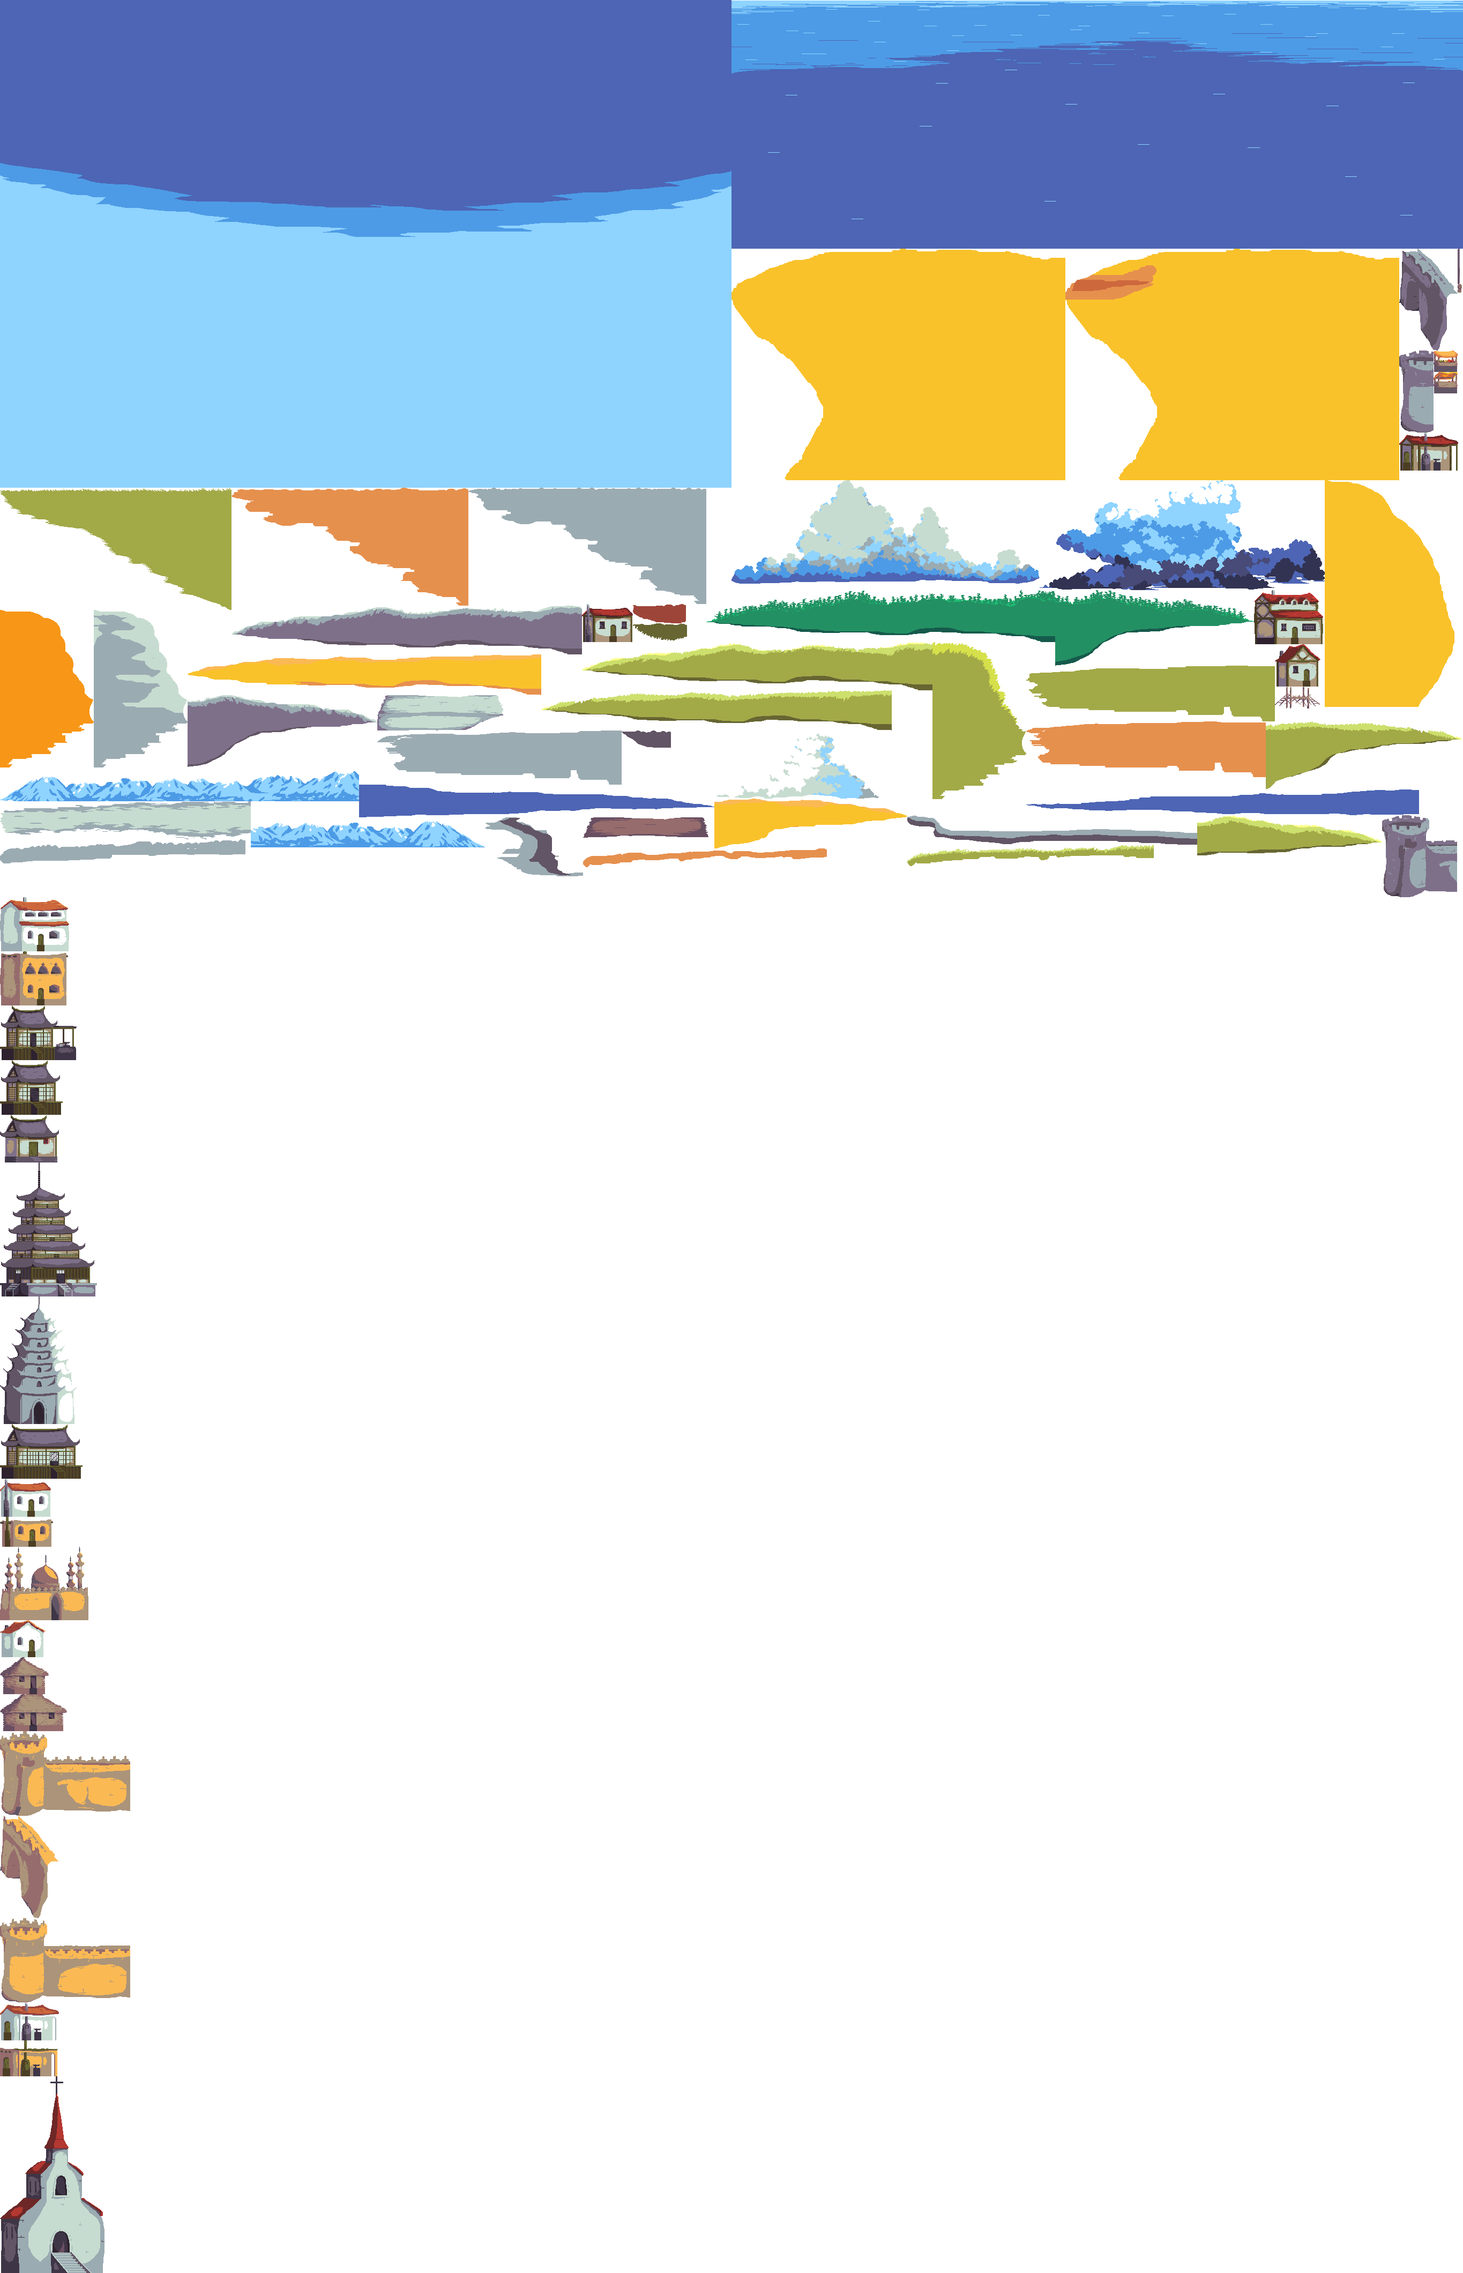
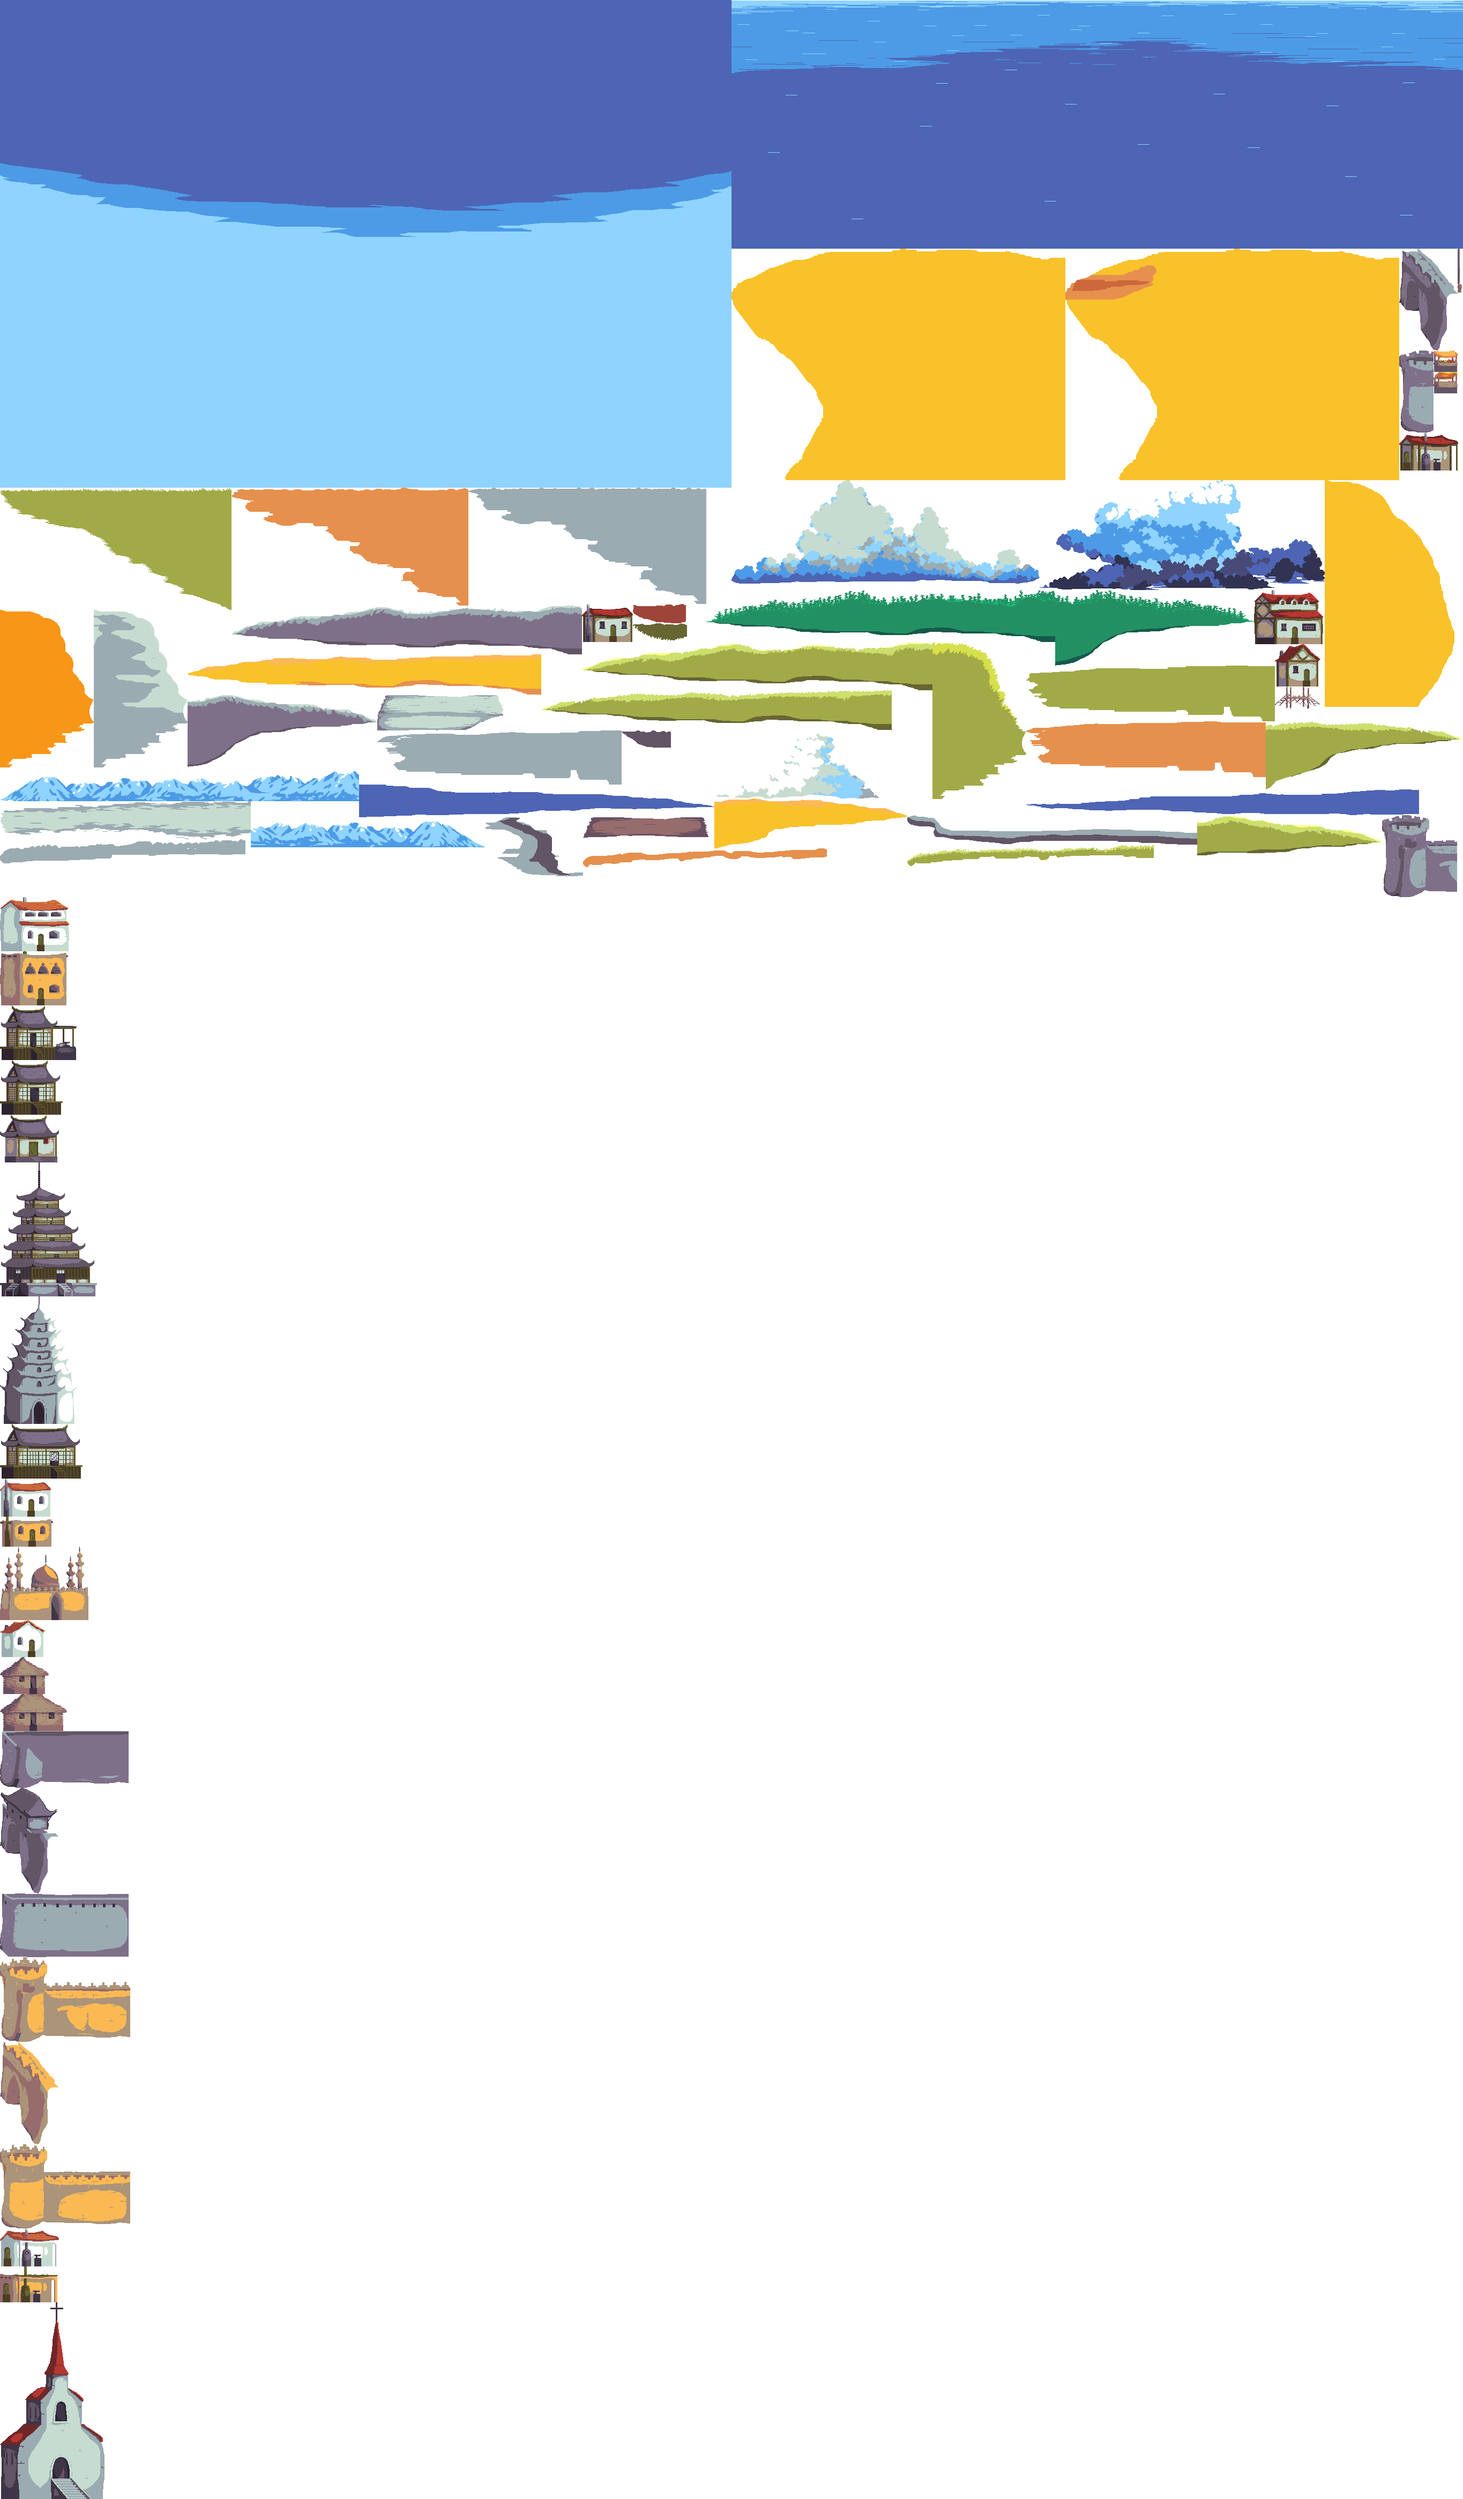
Add Chinese port gatehouse art

diff --git a/apps/pixel-globe/city-visualizer/cityRegionalBuildings.test.js b/apps/pixel-globe/city-visualizer/cityRegionalBuildings.test.js
@@ -29,6 +29,9 @@ const FRAMES = Object.freeze([
   frame("Earthen Hut", { cityType: "earthen-village", regionalOf: "Home", hasChimney: false }),
   frame("Earthen Hut Large", { cityType: "earthen-village", regionalOf: "Home 2", hasChimney: false }),
   frame("China Home", { cityType: "east-asian", regionalOf: "Home", hasChimney: false }),
+  frame("China Gate Far", { cityType: "east-asian", regionalOf: "Far Castle", hasChimney: false }),
+  frame("China Gateway", { cityType: "east-asian", regionalOf: "Gate", hasChimney: false }),
+  frame("China Gate Near", { cityType: "east-asian", regionalOf: "Near Castle", hasChimney: false }),
   frame("Japan Home", { cityType: "japanese", regionalOf: "Home", hasChimney: false }),
   frame("Japan Inn", { cityType: "japanese", regionalOf: "Inn", hasChimney: false }),
   frame("Japan Smith", { cityType: "japanese", regionalOf: "Smith", hasChimney: false })
@@ -109,6 +112,18 @@ test("Ming and Joseon cities share the Chinese home for both current housing rol
   assert.ok(selected.every(({ hasChimney }) => hasChimney === false));
 });
 
+test("Ming and Joseon cities use the authored Chinese gatehouse", () => {
+  const selected = ["Far Castle", "Gate", "Near Castle"].map((baseLayer) => (
+    cityRegionalBuildingFrame(FRAMES, "east-asian", baseLayer)
+  ));
+  assert.deepEqual(selected.map(({ layer }) => layer), [
+    "China Gate Far",
+    "China Gateway",
+    "China Gate Near"
+  ]);
+  assert.ok(selected.every(({ hasChimney }) => hasChimney === false));
+});
+
 test("Japanese cities use the authored home, inn, and smith without Northern fallbacks", () => {
   const selected = ["Home", "Home 2", "Inn", "Smith"].map((baseLayer) => (
     cityRegionalBuildingFrame(FRAMES, "japanese", baseLayer)
@@ -136,6 +151,9 @@ test("regional frames preserve their logical building roles", () => {
     ["Earthen Hut", "Home"],
     ["Earthen Hut Large", "Home 2"],
     ["China Home", "Home"],
+    ["China Gate Far", "Far Castle"],
+    ["China Gateway", "Gate"],
+    ["China Gate Near", "Near Castle"],
     ["Japan Home", "Home"],
     ["Japan Inn", "Inn"],
     ["Japan Smith", "Smith"]
@@ -162,18 +180,23 @@ test("exported earthen huts preserve the two housing ground lines", () => {
   }
 });
 
-test("regional fortifications preserve Northern geometry outside Middle Eastern cities", () => {
-  assert.deepEqual(
-    ["Far Castle", "Gate", "Near Castle"].map((baseLayer) => (
-      cityRegionalBuildingFrame(FRAMES, "mediterranean", baseLayer).layer
-    )),
-    ["Far Castle", "Gate", "Near Castle"]
-  );
+test("regional fortifications preserve Northern geometry where no replacement is authored", () => {
+  for (const cityType of ["mediterranean", "japanese"]) {
+    assert.deepEqual(
+      ["Far Castle", "Gate", "Near Castle"].map((baseLayer) => (
+        cityRegionalBuildingFrame(FRAMES, cityType, baseLayer).layer
+      )),
+      ["Far Castle", "Gate", "Near Castle"]
+    );
+  }
 });
 
 test("exported East Asian buildings preserve their authored roles and scene ground lines", () => {
   for (const [cityType, baseLayer, regionalLayer] of [
     ["east-asian", "Home", "China Home"],
+    ["east-asian", "Far Castle", "China Gate Far"],
+    ["east-asian", "Gate", "China Gateway"],
+    ["east-asian", "Near Castle", "China Gate Near"],
     ["japanese", "Home", "Japan Home"],
     ["japanese", "Inn", "Japan Inn"],
     ["japanese", "Smith", "Japan Smith"]
@@ -229,6 +252,32 @@ test("exported Middle Eastern fortifications keep the shared pieces grounded and
     );
     assert.equal(
       cityRegionalBuildingFrame(EXPORTED_FRAMES, "islamic-desert", baseLayer).layer,
+      regionalLayer
+    );
+  }
+});
+
+test("exported Chinese fortifications keep the shared pieces grounded and joined", () => {
+  for (const [baseLayer, regionalLayer] of [
+    ["Far Castle", "China Gate Far"],
+    ["Gate", "China Gateway"],
+    ["Near Castle", "China Gate Near"]
+  ]) {
+    const base = EXPORTED_FRAMES.find(({ layer }) => layer === baseLayer);
+    const regional = EXPORTED_FRAMES.find(({ layer }) => layer === regionalLayer);
+
+    assert.ok(base, `missing exported base frame ${baseLayer}`);
+    assert.ok(regional, `missing exported regional frame ${regionalLayer}`);
+    assert.equal(regional.cityType, "east-asian");
+    assert.equal(regional.regionalOf, baseLayer);
+    assert.equal(regional.spriteSourceSize.x, base.spriteSourceSize.x);
+    assert.equal(
+      regional.spriteSourceSize.y + regional.spriteSourceSize.h,
+      base.spriteSourceSize.y + base.spriteSourceSize.h,
+      `${regionalLayer} must retain ${baseLayer}'s ground line`
+    );
+    assert.equal(
+      cityRegionalBuildingFrame(EXPORTED_FRAMES, "east-asian", baseLayer).layer,
       regionalLayer
     );
   }

diff --git a/apps/pixel-globe/city-visualizer/cityGatehouseFlag.test.js b/apps/pixel-globe/city-visualizer/cityGatehouseFlag.test.js
@@ -30,22 +30,26 @@ test("only fortified cities with a national flag fly a gatehouse flag", () => {
 test("the national flag stays attached to the far tower across regional variants", () => {
   const northern = FRAMES.find(({ layer }) => layer === "Far Castle");
   const middleEastern = cityRegionalBuildingFrame(FRAMES, "islamic-desert", "Far Castle");
+  const chinese = cityRegionalBuildingFrame(FRAMES, "east-asian", "Far Castle");
   const northernGeometry = cityGatehouseFlagGeometry(northern);
-  const middleEasternGeometry = cityGatehouseFlagGeometry(middleEastern);
 
   assert.equal(middleEastern.layer, "Middle East Far Wall");
-  assert.equal(middleEasternGeometry.poleX, northernGeometry.poleX);
-  assert.equal(
-    middleEasternGeometry.poleBottomY - middleEastern.spriteSourceSize.y,
-    northernGeometry.poleBottomY - northern.spriteSourceSize.y
-  );
-  assert.equal(middleEasternGeometry.flagWidth, CITY_GATEHOUSE_FLAG_WIDTH);
-  assert.equal(middleEasternGeometry.flagHeight, CITY_GATEHOUSE_FLAG_HEIGHT);
-  assert.equal(middleEasternGeometry.waveAmplitudeScale, CITY_GATEHOUSE_FLAG_SCALE);
+  assert.equal(chinese.layer, "China Gate Far");
+  for (const regional of [middleEastern, chinese]) {
+    const regionalGeometry = cityGatehouseFlagGeometry(regional);
+    assert.equal(regionalGeometry.poleX, northernGeometry.poleX);
+    assert.equal(
+      regionalGeometry.poleBottomY - regional.spriteSourceSize.y,
+      northernGeometry.poleBottomY - northern.spriteSourceSize.y
+    );
+    assert.equal(regionalGeometry.flagWidth, CITY_GATEHOUSE_FLAG_WIDTH);
+    assert.equal(regionalGeometry.flagHeight, CITY_GATEHOUSE_FLAG_HEIGHT);
+    assert.equal(regionalGeometry.waveAmplitudeScale, CITY_GATEHOUSE_FLAG_SCALE);
+    assert.ok(regionalGeometry.flagY < regional.spriteSourceSize.y);
+    assert.ok(regionalGeometry.poleBottomY > regional.spriteSourceSize.y);
+  }
   assert.ok(CITY_GATEHOUSE_FLAG_WIDTH >= 14 * 2 && CITY_GATEHOUSE_FLAG_WIDTH <= 14 * 3);
   assert.ok(CITY_GATEHOUSE_FLAG_HEIGHT >= 9 * 2 && CITY_GATEHOUSE_FLAG_HEIGHT <= 9 * 3);
-  assert.ok(middleEasternGeometry.flagY < middleEastern.spriteSourceSize.y);
-  assert.ok(middleEasternGeometry.poleBottomY > middleEastern.spriteSourceSize.y);
 });
 
 test("the enlarged gatehouse flag keeps the shared wind flip and fabric deformation", () => {

diff --git a/apps/pixel-globe/city-visualizer/cityChimneySmoke.test.js b/apps/pixel-globe/city-visualizer/cityChimneySmoke.test.js
@@ -168,6 +168,9 @@ test("regional buildings retain their canonical chimney emitters", async () => {
     chimneylessRegionalFrames.map(({ layer }) => layer).sort(),
     [
       "China Home",
+      "China Gate Far",
+      "China Gateway",
+      "China Gate Near",
       "Earthen Hut",
       "Earthen Hut Large",
       "Japan Home",
